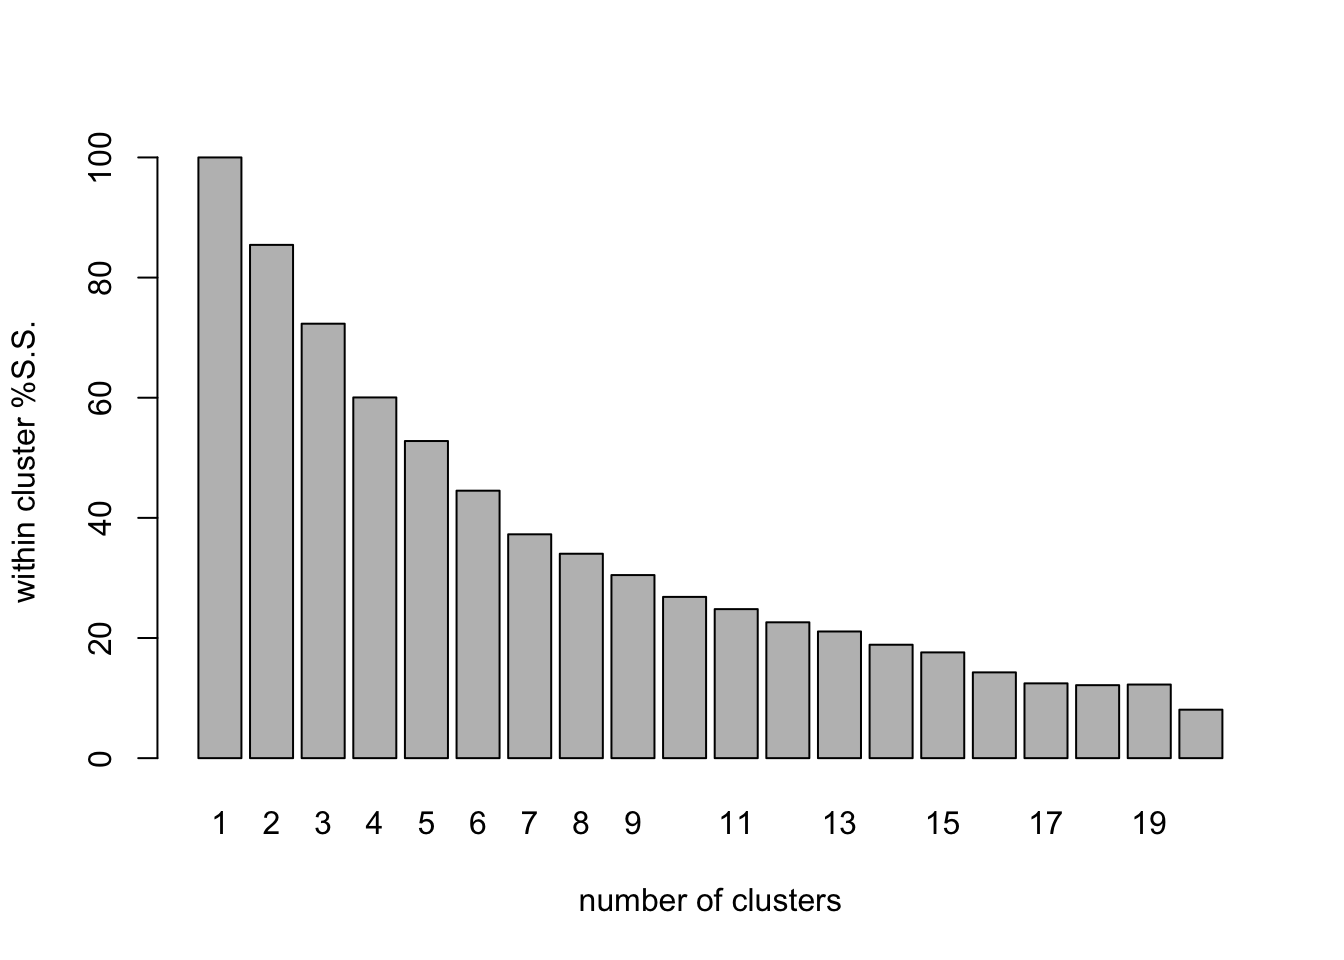
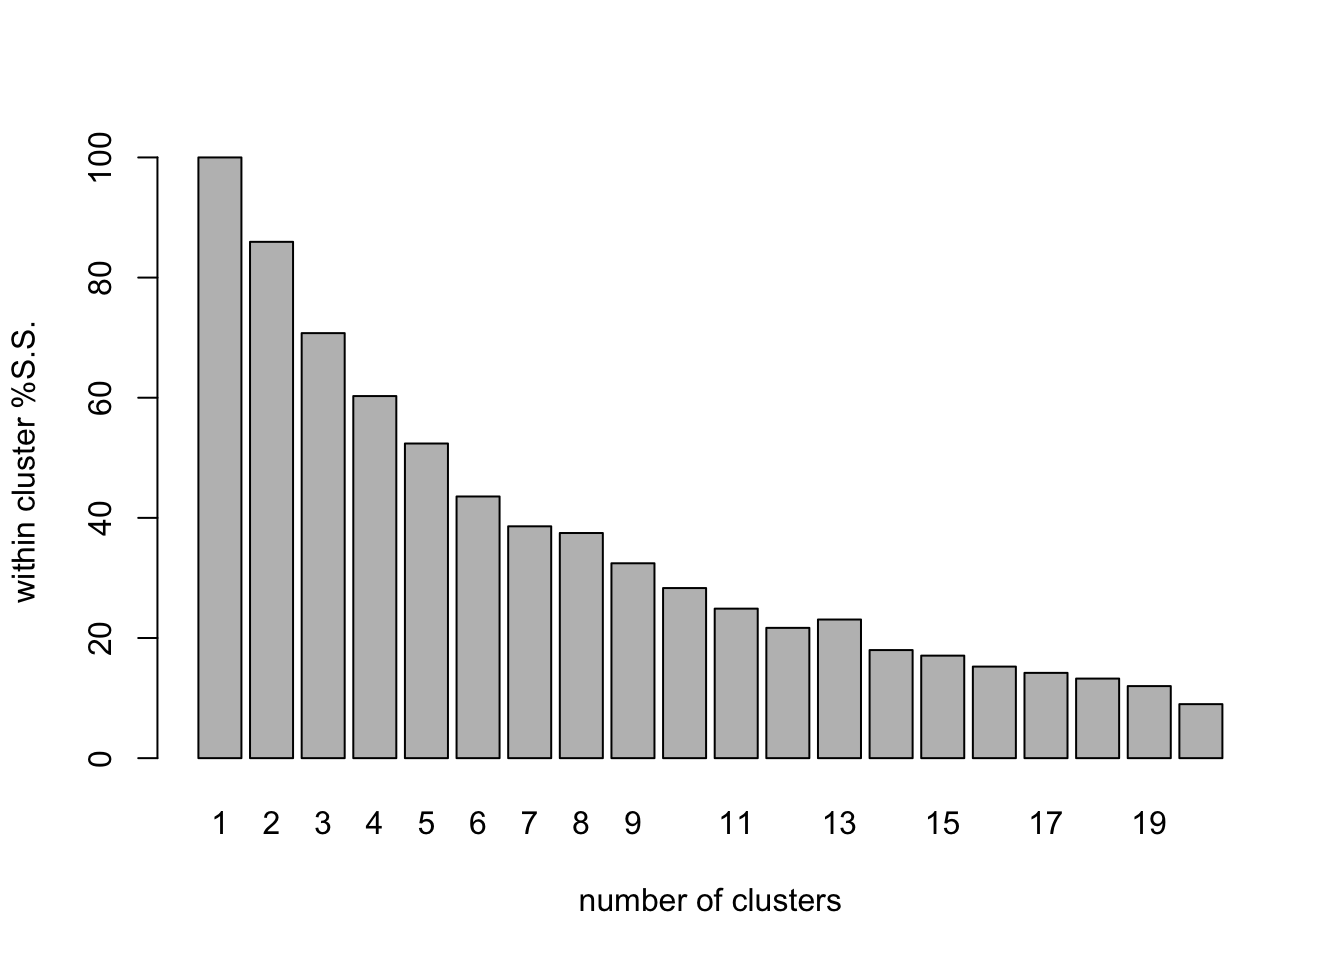
last run

diff --git a/docs/3-Cluster.html b/docs/3-Cluster.html
@@ -385,24 +385,24 @@ head(NHCA_data1)</code></pre>
 <pre class="r"><code># Cluster the fields into 3 groups
 NHCA_fields1 &lt;- kmeans(NHCA_data1[, 3:14], 3)
 NHCA_fields1</code></pre>
-<pre><code>## K-means clustering with 3 clusters of sizes 19, 17, 5
+<pre><code>## K-means clustering with 3 clusters of sizes 17, 19, 5
 ## 
 ## Cluster means:
 ##         ST_L       St_G        Sn_L       Sn_G       Pm_L       Pm_G
-## 1 -0.4722292 -0.2639670  0.08016341 -0.3051107 -0.2227231 -0.1377754
-## 2  0.7594520  0.3766294 -0.04872678  0.4307445 -0.4068907 -0.4821244
+## 1  0.7594520  0.3766294 -0.04872678  0.4307445 -0.4068907 -0.4821244
+## 2 -0.4722292 -0.2639670  0.08016341 -0.3051107 -0.2227231 -0.1377754
 ## 3 -0.7876661 -0.2774652 -0.13894991 -0.3051107  2.2297760  2.1627693
 ##          Fu_L       Bo_L       SM_E          ES         SES         TA
-## 1 -0.02302349 -0.7819521 -0.3723971 -0.50304676 -0.08865062  0.3352989
-## 2 -0.24782799  1.0214250  0.5602808  0.59152557  0.03101715 -0.3027139
+## 1 -0.24782799  1.0214250  0.5602808  0.59152557  0.03101715 -0.3027139
+## 2 -0.02302349 -0.7819521 -0.3723971 -0.50304676 -0.08865062  0.3352989
 ## 3  0.93010445 -0.5014268 -0.4898455 -0.09960923  0.23141405 -0.2449084
 ## 
 ## Clustering vector:
-##  [1] 3 1 1 3 3 1 1 1 1 1 1 1 1 1 1 3 1 1 3 1 1 1 2 2 2 1 2 2 2 2 2 2 2 2 2
-## [36] 2 2 1 2 2 2
+##  [1] 3 2 2 3 3 2 2 2 2 2 2 2 2 2 2 3 2 2 3 2 2 2 1 1 1 2 1 1 1 1 1 1 1 1 1
+## [36] 1 1 2 1 1 1
 ## 
 ## Within cluster sum of squares by cluster:
-## [1] 146.50138 155.71549  34.15967
+## [1] 155.71549 146.50138  34.15967
 ##  (between_SS / total_SS =  29.9 %)
 ## 
 ## Available components:
@@ -442,33 +442,33 @@ clus_plot_pct &lt;- barplot(wSS_fields1_pct,
 <pre class="r"><code># Cluster the fields into 7 groups
 NHCA_fields2 &lt;- kmeans(NHCA_data1[, 3:14], 7)
 NHCA_fields2</code></pre>
-<pre><code>## K-means clustering with 7 clusters of sizes 2, 1, 10, 7, 3, 1, 17
+<pre><code>## K-means clustering with 7 clusters of sizes 5, 1, 4, 2, 7, 19, 3
 ## 
 ## Cluster means:
-##          ST_L       St_G        Sn_L        Sn_G       Pm_L        Pm_G
-## 1 -0.61913740 -0.8087150  3.46646011 -0.30511069  0.1686332 -0.48212440
-## 2  0.69749297 -0.8087150 -0.51741836 -0.30511069 -0.4836272 -0.48212440
-## 3  1.22414512  1.2063704 -0.21862748 -0.05491992 -0.4836272 -0.48212440
-## 4 -0.05486724 -0.8087150 -0.09057424  0.40972007 -0.1109070 -0.28326021
-## 5 -0.91757362 -0.1675514 -0.45102039 -0.30511069  2.8211587  2.81239232
-## 6  0.17084082 -0.8087150  2.47049050  4.69870465  0.8208936 -0.48212440
-## 7 -0.51380697 -0.1567756 -0.27721393 -0.30511069 -0.2073758  0.01737565
-##          Fu_L       Bo_L       SM_E          ES        SES          TA
-## 1 -0.81118698 -1.3580309  1.8431054 -0.54713830  1.4427324 -0.37035862
-## 2  1.80075016 -1.3580309 -0.6927108 -0.51076278  0.8952439  5.37944306
-## 3 -0.11467041  1.0214250  0.7273463  0.04071208 -0.5001675 -0.25536259
-## 4 -0.43805311  1.0214250  0.4665195  1.60878025  0.6725334 -0.37035862
-## 5  1.04619054 -0.8821397 -0.6927108 -0.65736713  0.2660883 -0.16127493
-## 6  0.05945873  1.0214250 -0.6927108  0.51877454  1.1648820 -0.37035862
-## 7  0.04921584 -0.6861846 -0.6330445 -0.50648331 -0.3205832  0.08009376
+##         ST_L       St_G       Sn_L        Sn_G        Pm_L       Pm_G
+## 1 -0.7666000 -0.5156116 -0.1389499 -0.30511069  1.57751559  1.4667446
+## 2 -0.9877939  0.3820173 -0.5174184 -0.30511069  4.08219545  4.3900482
+## 3  0.4341669 -0.8087150 -0.5174184 -0.30511069 -0.48362721 -0.4821244
+## 4 -0.6191374 -0.8087150  3.4664601 -0.30511069  0.16863317 -0.4821244
+## 5  1.3746172  1.8082790 -0.3751370  0.05230469 -0.48362721 -0.4821244
+## 6 -0.2227624 -0.1675514 -0.2343533 -0.30511069 -0.36004103 -0.2110411
+## 7 -0.3558113 -0.8087150  1.1425310  3.03076620 -0.04878696 -0.4821244
+##          Fu_L       Bo_L       SM_E         ES         SES          TA
+## 1  0.33806536 -0.5490159 -0.2869802  0.1356191  0.05348028 -0.30763351
+## 2  3.01965416 -1.1200853 -0.6927108 -0.6573671 -0.03959277 -0.05673308
+## 3 -0.81118698  1.0214250  0.8287790  1.6750750  1.05504208 -0.37035862
+## 4 -0.81118698 -1.3580309  1.8431054 -0.5471383  1.44273238 -0.37035862
+## 5  0.05945873  1.0214250  1.0461346  0.1929696 -0.55149453 -0.37035862
+## 6 -0.02302349 -0.4062486 -0.5859396 -0.5224238 -0.25167253  0.39582309
+## 7  0.05945873  1.0214250 -0.3546019  0.9828379  0.43626600 -0.37035862
 ## 
 ## Clustering vector:
-##  [1] 7 7 7 5 5 7 7 7 7 7 7 7 7 7 7 5 7 1 4 7 1 7 4 4 4 7 4 3 3 4 6 3 3 3 3
-## [36] 3 4 2 3 3 3
+##  [1] 1 6 6 1 1 6 6 6 6 6 6 6 6 6 6 2 6 4 1 6 4 6 3 3 7 1 3 6 6 7 7 5 5 5 5
+## [36] 5 3 6 5 5 6
 ## 
 ## Within cluster sum of squares by cluster:
-## [1] 11.04295  0.00000 45.04325 51.84865 14.43222  0.00000 61.40302
-##  (between_SS / total_SS =  61.7 %)
+## [1]  20.56423   0.00000  25.84611  11.04295  22.83024 105.99551  10.53387
+##  (between_SS / total_SS =  59.0 %)
 ## 
 ## Available components:
 ## 
@@ -484,31 +484,31 @@ NHCA_fields2</code></pre>
 <pre class="r"><code># Cluster the fields into 6 groups
 NHCA_fields3 &lt;- kmeans(NHCA_data1[, 3:14], 6)
 NHCA_fields3</code></pre>
-<pre><code>## K-means clustering with 6 clusters of sizes 10, 3, 2, 1, 8, 17
+<pre><code>## K-means clustering with 6 clusters of sizes 1, 15, 5, 1, 16, 3
 ## 
 ## Cluster means:
-##          ST_L       St_G       Sn_L        Sn_G         Pm_L        Pm_G
-## 1  1.22414512  1.2063704 -0.2186275 -0.05491992 -0.483627208 -0.48212440
-## 2 -0.91757362 -0.1675514 -0.4510204 -0.30511069  2.821158715  2.81239232
-## 3 -0.61913740 -0.8087150  3.4664601 -0.30511069  0.168633171 -0.48212440
-## 4  0.69749297 -0.8087150 -0.5174184 -0.30511069 -0.483627208 -0.48212440
-## 5 -0.02665374 -0.8087150  0.2295589  0.94584314  0.005568076 -0.30811823
-## 6 -0.51380697 -0.1567756 -0.2772139 -0.30511069 -0.207375753  0.01737565
-##          Fu_L       Bo_L       SM_E          ES        SES          TA
-## 1 -0.11467041  1.0214250  0.7273463  0.04071208 -0.5001675 -0.25536259
-## 2  1.04619054 -0.8821397 -0.6927108 -0.65736713  0.2660883 -0.16127493
-## 3 -0.81118698 -1.3580309  1.8431054 -0.54713830  1.4427324 -0.37035862
-## 4  1.80075016 -1.3580309 -0.6927108 -0.51076278  0.8952439  5.37944306
-## 5 -0.37586413  1.0214250  0.3216157  1.47252953  0.7340769 -0.37035862
-## 6  0.04921584 -0.6861846 -0.6330445 -0.50648331 -0.3205832  0.08009376
+##         ST_L       St_G       Sn_L       Sn_G       Pm_L       Pm_G
+## 1  0.6974930 -0.8087150 -0.5174184 -0.3051107 -0.4836272 -0.4821244
+## 2 -0.5032739 -0.1187009 -0.2916652 -0.3051107 -0.3270847 -0.1387522
+## 3 -0.7666000 -0.5156116 -0.1389499 -0.3051107  1.5775156  1.4667446
+## 4 -0.9877939  0.3820173 -0.5174184 -0.3051107  4.0821954  4.3900482
+## 5  0.7962402  0.4507134 -0.2061779  0.1639970 -0.4836272 -0.4821244
+## 6 -0.3558113 -0.8087150  3.1344702  1.3628278  0.3860533 -0.4821244
+##          Fu_L       Bo_L       SM_E         ES         SES          TA
+## 1  1.80075016 -1.3580309 -0.6927108 -0.5107628  0.89524387  5.37944306
+## 2 -0.04501875 -0.6283311 -0.6927108 -0.5647749 -0.30238725  0.14015407
+## 3  0.33806536 -0.5490159 -0.2869802  0.1356191  0.05348028 -0.30763351
+## 4  3.01965416 -1.1200853 -0.6927108 -0.6573671 -0.03959277 -0.05673308
+## 5 -0.26703341  1.0214250  0.6385927  0.5960725 -0.03984940 -0.29848610
+## 6 -0.52097174 -0.5648790  0.9978334 -0.1918340  1.35011557 -0.37035862
 ## 
 ## Clustering vector:
-##  [1] 6 6 6 2 2 6 6 6 6 6 6 6 6 6 6 2 6 3 5 6 3 6 5 5 5 6 5 1 1 5 5 1 1 1 1
-## [36] 1 5 4 1 1 1
+##  [1] 3 2 2 3 3 2 2 2 2 2 2 2 2 2 2 4 2 6 3 2 6 2 5 5 5 3 5 5 5 5 6 5 5 5 5
+## [36] 5 5 1 5 5 5
 ## 
 ## Within cluster sum of squares by cluster:
-## [1] 45.04325 14.43222 11.04295  0.00000 77.16680 61.40302
-##  (between_SS / total_SS =  56.4 %)
+## [1]   0.00000  49.69022  20.56423   0.00000 123.01086  38.47175
+##  (between_SS / total_SS =  51.7 %)
 ## 
 ## Available components:
 ## 

diff --git a/docs/Intro_R.html b/docs/Intro_R.html
@@ -510,14 +510,14 @@ disease</code></pre>
 length(X)</code></pre>
 <pre><code>## [1] 20</code></pre>
 <pre class="r"><code>mean(X)</code></pre>
-<pre><code>## [1] 4.41099</code></pre>
+<pre><code>## [1] 4.532676</code></pre>
 <pre class="r"><code>median(X)</code></pre>
-<pre><code>## [1] 3.813813</code></pre>
+<pre><code>## [1] 5.412746</code></pre>
 <pre class="r"><code>var(X)</code></pre>
-<pre><code>## [1] 4.594165</code></pre>
+<pre><code>## [1] 3.881967</code></pre>
 <pre class="r"><code>summary(X)</code></pre>
 <pre><code>##    Min. 1st Qu.  Median    Mean 3rd Qu.    Max. 
-##   1.431   2.489   3.814   4.411   6.197   8.353</code></pre>
+##  0.4126  3.1046  5.4127  4.5327  5.7604  7.1902</code></pre>
 </div>
 <div id="matrix-calculations" class="section level4">
 <h4><strong>Matrix calculations</strong></h4>
@@ -816,13 +816,13 @@ group3&lt;-rnorm(10,15,7)
 example.apply&lt;-cbind(group1,group2,group3)
 apply(example.apply, MARGIN=2, mean)</code></pre>
 <pre><code>##    group1    group2    group3 
-##  4.602649  8.720922 13.709929</code></pre>
+##  5.494606 15.087290 16.315902</code></pre>
 <pre class="r"><code>apply(example.apply, MARGIN=2, sd)</code></pre>
 <pre><code>##   group1   group2   group3 
-## 2.128654 6.278082 8.389056</code></pre>
+## 1.603952 5.704029 4.248971</code></pre>
 <pre class="r"><code>apply(example.apply, MARGIN=2, function (x) sd(x)/mean(x))</code></pre>
 <pre><code>##    group1    group2    group3 
-## 0.4624844 0.7198875 0.6118964</code></pre>
+## 0.2919139 0.3780685 0.2604190</code></pre>
 <pre class="r"><code>#lapply() - works on a list
 L28 &lt;- list(c(1,2,3),1000,seq(1,2,.1))
 L28</code></pre>
@@ -847,13 +847,13 @@ L28</code></pre>
 factor&lt;-rep(c(&quot;A&quot;,&quot;B&quot;,&quot;C&quot;,&quot;D&quot;,&quot;E&quot;), each=2)
 tapply(example.apply[,1], factor, mean) #Summarizing the first column, by factor</code></pre>
 <pre><code>##        A        B        C        D        E 
-## 4.332625 4.789344 6.469803 5.938159 1.483315</code></pre>
+## 4.154829 6.025007 6.491948 6.456719 4.344526</code></pre>
 <pre class="r"><code>tapply(example.apply[,1], factor, sd) #Summarizing the first column, by factor</code></pre>
-<pre><code>##          A          B          C          D          E 
-## 0.16168313 1.26993225 0.47018556 2.94872373 0.09922893</code></pre>
+<pre><code>##         A         B         C         D         E 
+## 0.5954708 2.7582574 0.3994984 1.8120120 1.0534075</code></pre>
 <pre class="r"><code>tapply(example.apply[,1], factor, function (x) sd(x)/mean(x)) #CV by factor</code></pre>
 <pre><code>##          A          B          C          D          E 
-## 0.03731759 0.26515787 0.07267386 0.49657201 0.06689674</code></pre>
+## 0.14332019 0.45780153 0.06153752 0.28063977 0.24246775</code></pre>
 </div>
 
 

diff --git a/README.md b/README.md
@@ -1,2 +1,2 @@
-# OPPWorkshop-multivariate-Neil
-Supporting data and information for the Workshop "Introduction to Multivariate Statistics Using R" presented at the International Congress of Plant Pathology 2018 Boston USA
+# Workshop: Multivariate analysis in R 
+This repository is an R project that contains data, R codes and the slides presented at the Workshop "Introduction to Multivariate Statistics Using R" during the International Congress of Plant Pathology 2018 Boston USA.
